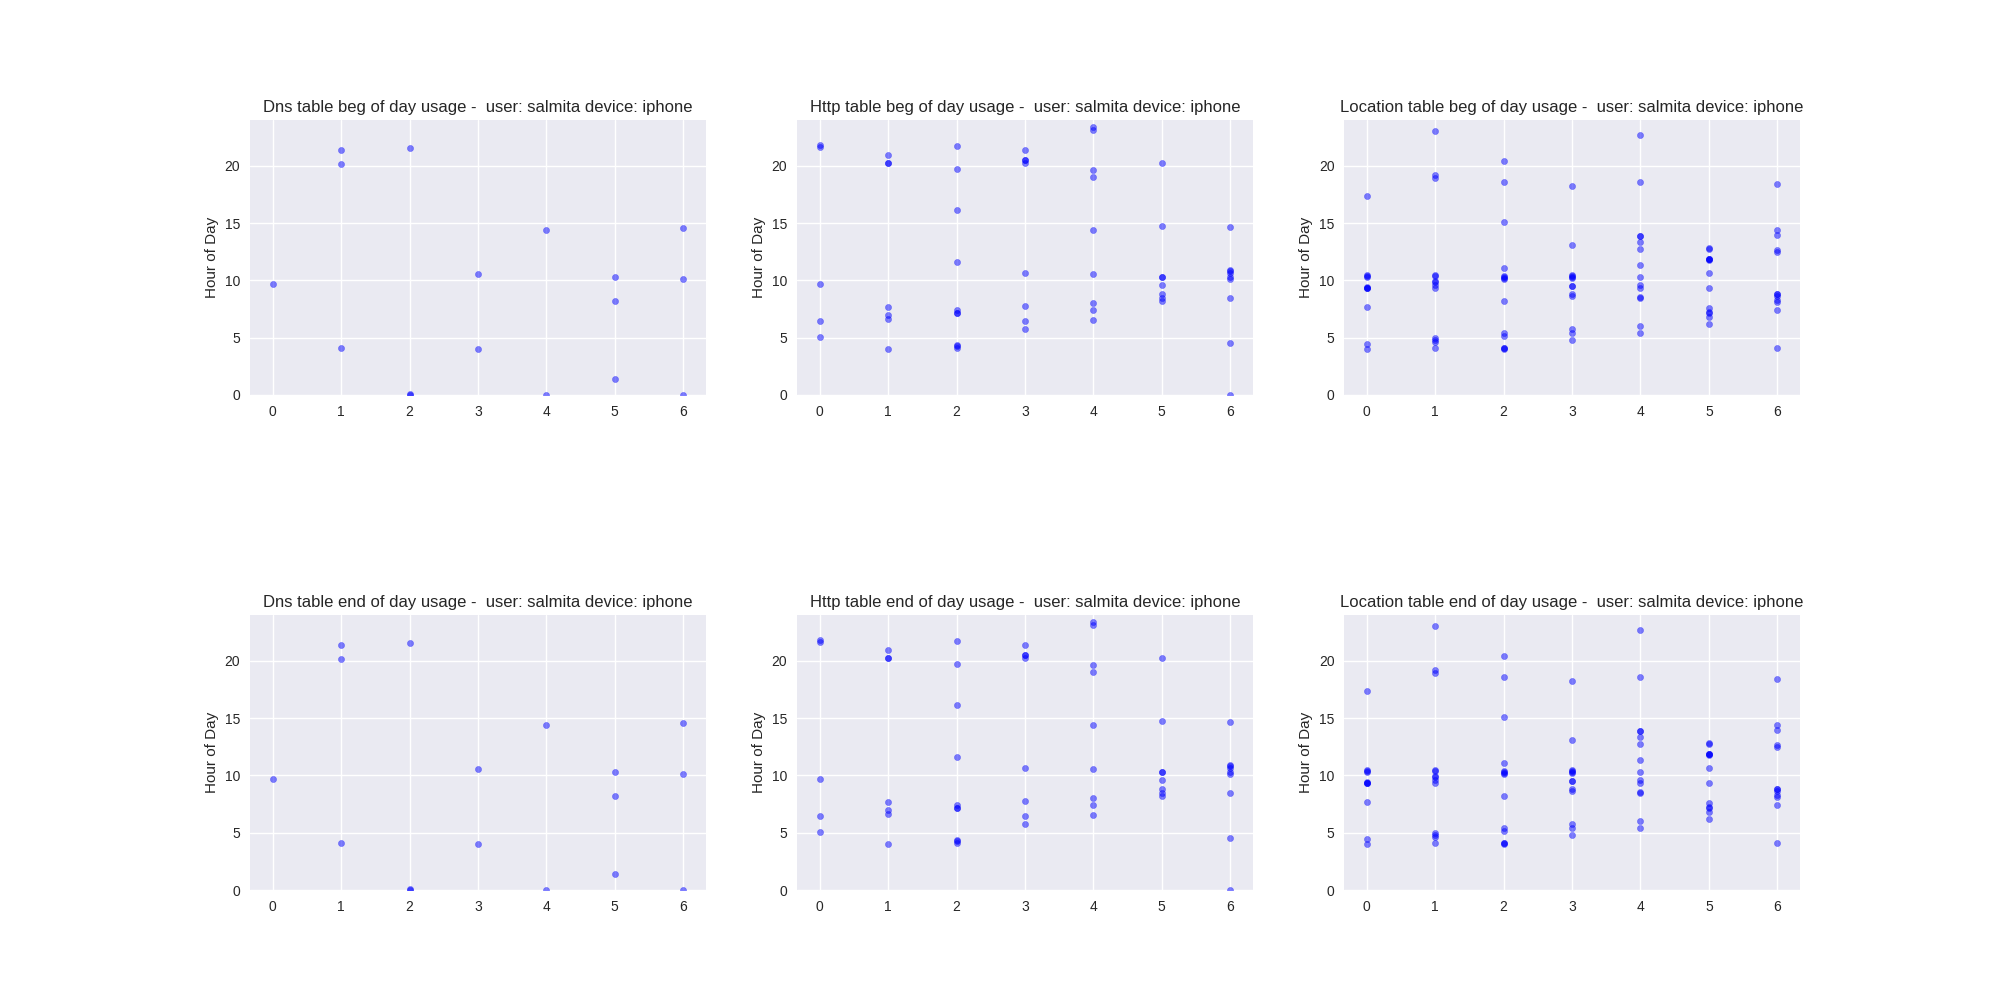
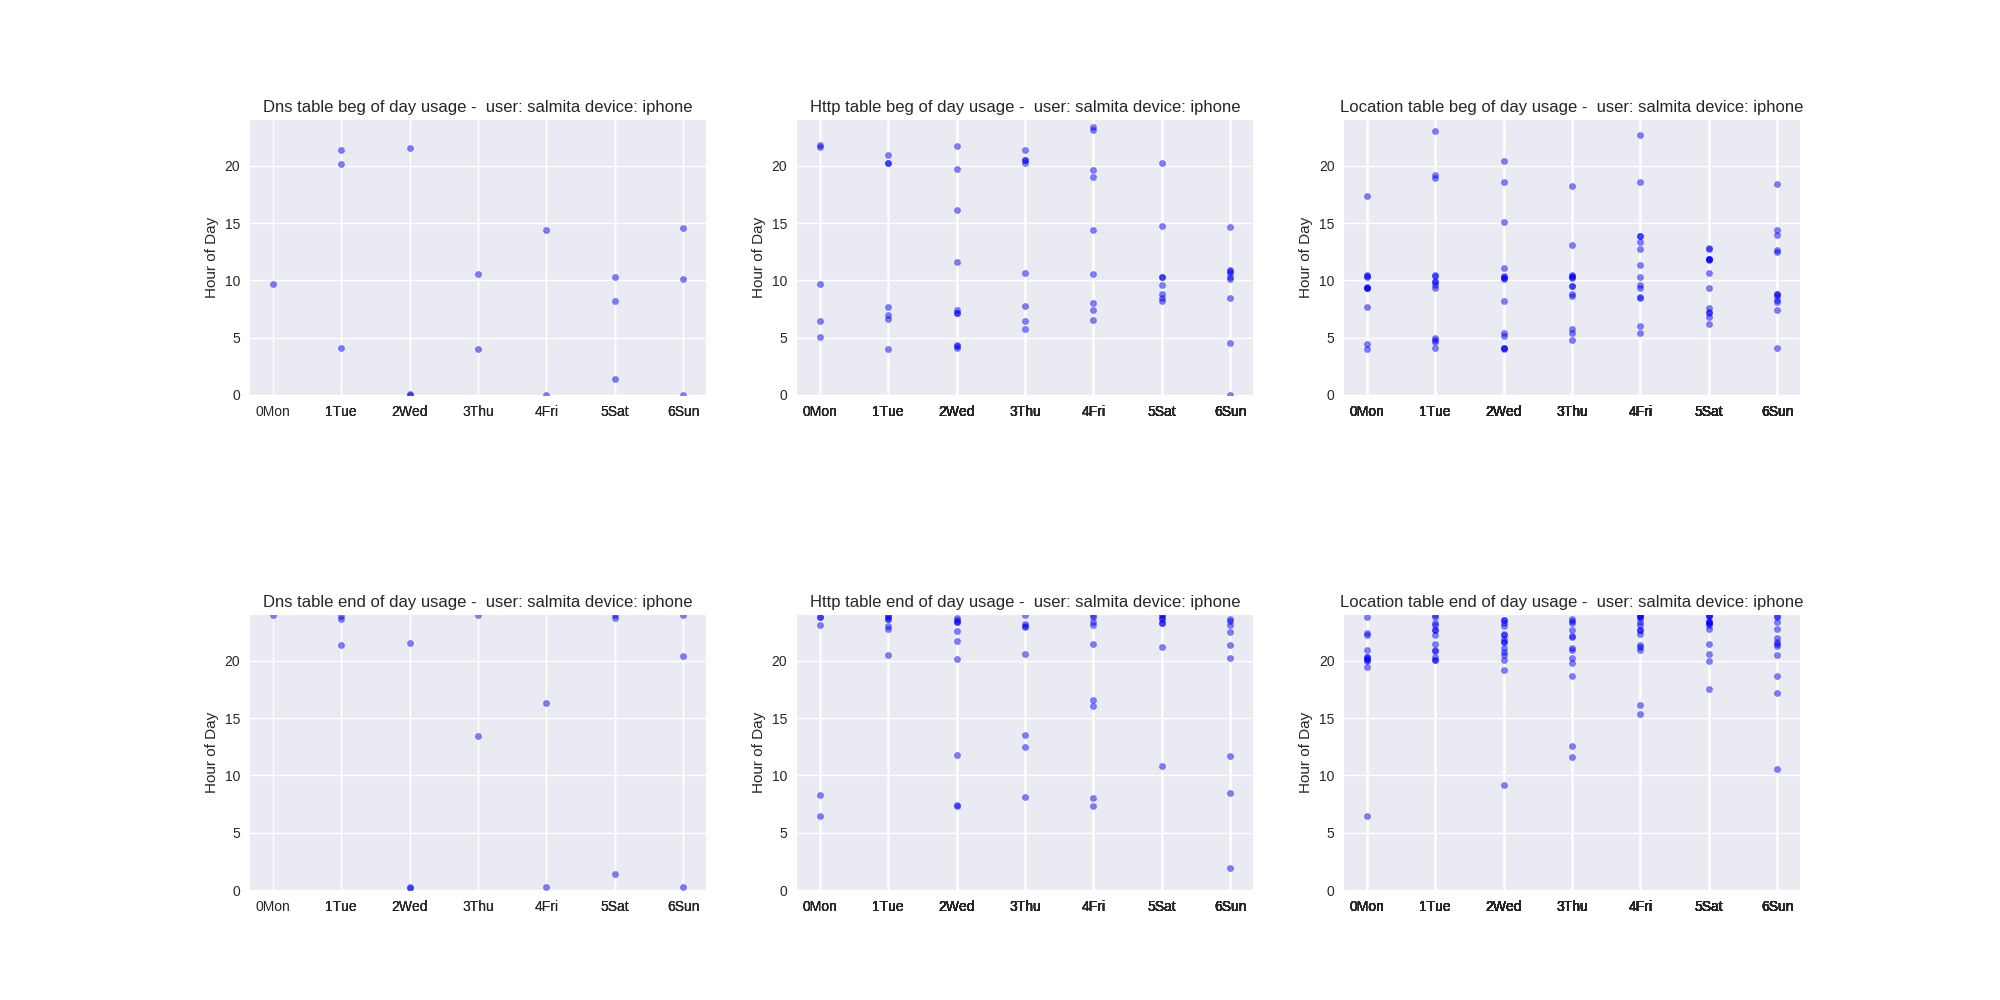
plots ok

diff --git a/activity_analysis.py b/activity_analysis.py
@@ -40,17 +40,22 @@ def main():
 
     days_str = {'Monday', 'Tuesday', 'Wednesday', 'Thursday', 'Friday','Saturday', 'Sunday'}
 
-    for user in users:
+    #tests only first user
+    users2 = []
+    users2.append(users[0])
+    users2.append(users[1])
+
+    for user in users2:
 
         fig, ((ax1, ax3, ax5), (ax2, ax4, ax6)) = plt.subplots(nrows = 2, ncols = 3, figsize=(20, 10))
         #fig, (ax3, ax4) = plt.subplots(nrows = 2, ncols = 1, figsize=(20, 25))
         print('scatter user ' + user.username) 
         scatter_plot(ax1, dns_week_beg[user.username][0], 'beg', 'Dns', days_str, user,len(dns_week_beg[user.username]))
-        scatter_plot(ax2, dns_week_beg[user.username][0], 'end', 'Dns', days_str, user,len(dns_week_beg[user.username]))
+        scatter_plot(ax2, dns_week_end[user.username][0], 'end', 'Dns', days_str, user,len(dns_week_end[user.username]))
         scatter_plot(ax3, http_week_beg[user.username][0], 'beg', 'Http', days_str, user,len(http_week_beg[user.username]))
-        scatter_plot(ax4, http_week_beg[user.username][0], 'end', 'Http', days_str, user,len(http_week_beg[user.username]))
+        scatter_plot(ax4, http_week_end[user.username][0], 'end', 'Http', days_str, user,len(http_week_end[user.username]))
         scatter_plot(ax5, loc_week_beg[user.username][0], 'beg', 'Location', days_str, user,len(loc_week_beg[user.username]))
-        scatter_plot(ax6, loc_week_beg[user.username][0], 'end', 'Location', days_str, user,len(loc_week_beg[user.username]))
+        scatter_plot(ax6, loc_week_end[user.username][0], 'end', 'Location', days_str, user,len(loc_week_end[user.username]))
         #print(dns_week_beg[user.username][0][0]['platform'])
 
 
@@ -79,7 +84,10 @@ def scatter_plot(ax, info_week, key_beg_end, title, days_str, user, quantity_dev
             ax.set_title(title + ' table ' + key_beg_end + ' of day usage -  user: ' + user.username + ' device: ' + platform)
             ax.set_ylabel('Hour of Day')
             ax.set_ylim((0,24))
-            ax.set_xticks(num_x, x)
+            #ax.set_xlim((-1,7))
+            #ax.set_xticks(num_x, x)
+            ax.set_xticks(num_x)
+            ax.set_xticklabels(x)
             ax.scatter(num_x, y, s=20, c='b', alpha=0.5)
             #plt.savefig('figs_scatter_activity/' + user.username + '-' + platform + '-' + key_beg_end +  '-allweek.png')
             #plt.close()

diff --git a/location_analysis.py b/location_analysis.py
@@ -26,17 +26,22 @@ Base.metadata.bind = engine
 Session = sessionmaker(bind=engine)
 
 def main():
-    get_locations_data()
 
+    get_locations_data()
 
 def get_locations_data ():
 
     ses = Session()
     users = ses.query(User)
 
+    #tests only first user
+    users2 = []
+    users2.append(users[0])
+    users2.append(users[1])
+
     loc_beg_userdata = defaultdict(list)
     loc_end_userdata = defaultdict(list)
-    for user in users:
+    for user in users2:
         sql_user_devices = text('select * from user, user_devices where user_de\
 vices.user_id =:user').bindparams(user = user.id)
         user_devices = ses.execute(sql_user_devices)

diff --git a/httpreqs_analysis.py b/httpreqs_analysis.py
@@ -33,9 +33,15 @@ def get_http_data():
     ses = Session()
     users = ses.query(User)
 
+    #tests only first user
+    users2 = []
+    users2.append(users[0])
+    users2.append(users[1])
+
+
     http_beg_userdata = defaultdict(list)
     http_end_userdata = defaultdict(list)
-    for user in users:
+    for user in users2:
         sql_user_devices = text('select * from user, user_devices where user_devices.user_id =:user').bindparams(user = user.id)
         user_devices = ses.execute(sql_user_devices)
 

diff --git a/dnsreqs_analysis.py b/dnsreqs_analysis.py
@@ -33,9 +33,14 @@ def get_dns_data():
     ses = Session()
     users = ses.query(User)
 
+    #tests only first user
+    users2 = []
+    users2.append(users[0])
+    users2.append(users[1])
+
     dns_beg_userdata = defaultdict(list)
     dns_end_userdata = defaultdict(list)
-    for user in users:
+    for user in users2:
         sql_user_devices = text('select * from user, user_devices where user_devices.user_id =:user').bindparams(user = user.id)
         user_devices = ses.execute(sql_user_devices)
 
